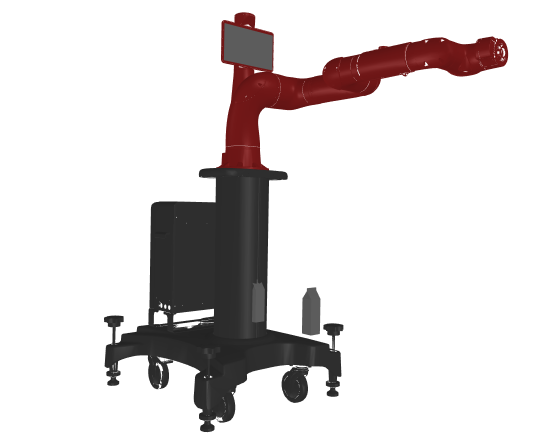
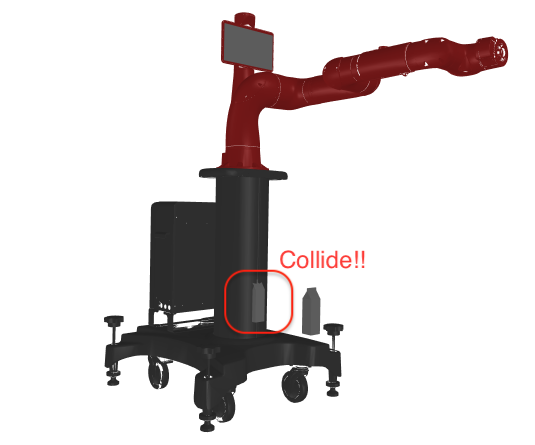
Modified sawyer_collision_test.py

Changed region(s): [[0.4486, 0.5551, 0.6879, 0.7303], [0.4187, 0.6135, 0.5383, 0.7596]]

diff --git a/example/single_stage/collision/sawyer_collision_test.py b/example/single_stage/collision/sawyer_collision_test.py
@@ -10,6 +10,7 @@ from pykin.kinematics.transform import Transform
 from pykin.collision.collision_manager import CollisionManager
 from pykin.utils.kin_utils import apply_robot_to_scene
 from pykin.utils import plot_utils as plt
+from pykin.utils.kin_utils import ShellColors as sc
 
 
 file_path = '../../../asset/urdf/sawyer/sawyer.urdf'
@@ -53,6 +54,7 @@ scene.add_geometry(test_mesh, node_name="milk2", transform=Transform(pos=[0.4, 0
 # print(result, name)
 
 result, name = c_manager.in_collision_other(o_manager, return_names=True)
-print(result, name)
 
+if result:
+    print(f"{sc.FAIL}Collide!! {sc.ENDC}{list(name)[0][0]} and {list(name)[0][1]}")
 scene.show()
